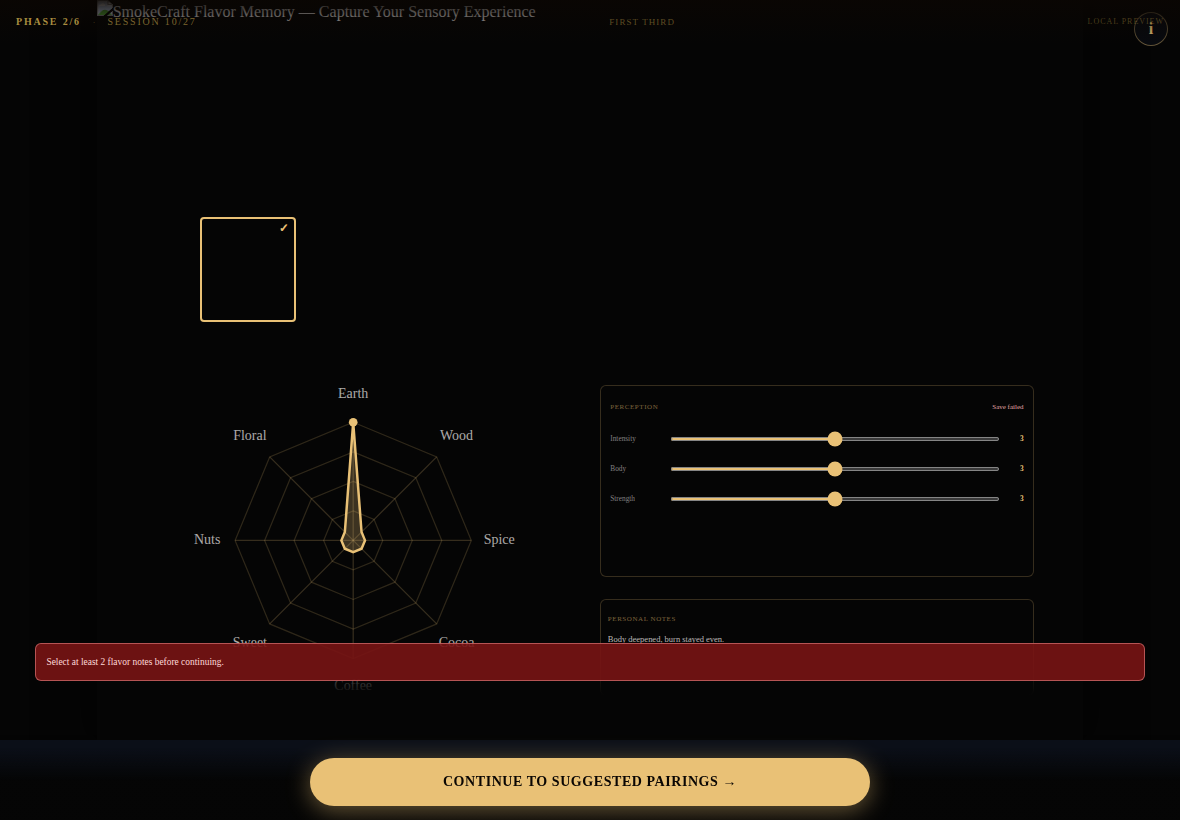
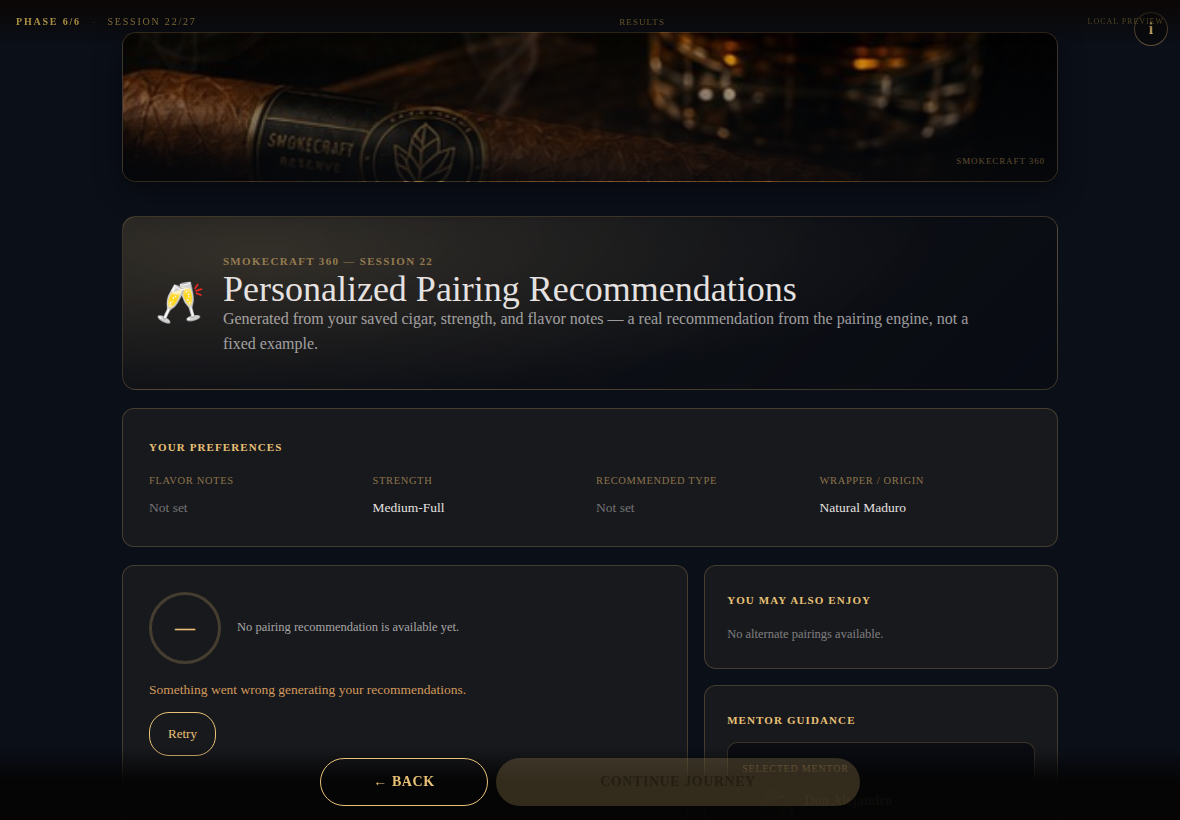
fix(integration): mount pairing-engine routes, fix journey stall at Pairing Recommendations
Root cause of the canonical journey stalling at /smokecraft/pairing-recommendations
(discovered on rerun after the flavor-memory fix — journey now correctly
reaches 20/24 checkpoints, up from 13): PairingRecommendations.jsx's
Continue button is gated on canContinue = phase === 'ready' && !!primary,
and phase is driven by useSmokeCraftPairingEngine() ->
pairingEngineApiClient.js, which calls /api/smokecraft/pairing-engine —
never mounted on the integration branch, so phase could never reach
'ready' and Continue stayed disabled forever.

- Port and mount pairingEngineRoutes.js (+ its controller) at
  /api/smokecraft/pairing-engine
- Verified via grep this route touches zero database tables directly —
  no migration required for this fix

Claude-Session: https://claude.ai/code/session_01Ju88KjC4Kc2MVgkLLyid8Z

diff --git a/server/controllers/pairingEngineController.js b/server/controllers/pairingEngineController.js
@@ -1,0 +1,90 @@
+import * as svc from '../services/smokecraft/pairingEngineService.js'
+
+function sendError(res, err, fallback = 400) {
+  const statusByCode = { pairing_type_required: 400, not_found: 404 }
+  res.status(statusByCode[err.code] || fallback).json({ success: false, error: err.code || 'internal_error' })
+}
+
+function guestRef(req) {
+  return req.goldenBoxGuestReference || null
+}
+
+function extractInput(body) {
+  return {
+    cigarShape: body.cigarShape || null,
+    wrapper: body.wrapper || null,
+    origin: body.origin || null,
+    strength: body.strength || null,
+    pairingType: body.pairingType || null,
+    flavorNotes: Array.isArray(body.flavorNotes) ? body.flavorNotes : [],
+    pairingGoal: body.pairingGoal || null,
+  }
+}
+
+export async function handleRecommend(req, res) {
+  try {
+    const ref = guestRef(req)
+    if (!ref) return res.status(400).json({ success: false, error: 'identity_required' })
+    const input = extractInput(req.body || {})
+    if (!input.pairingType) return res.status(400).json({ success: false, error: 'pairing_type_required' })
+    const result = await svc.recommend({ guestReference: ref, sourceRoute: req.body?.sourceRoute || null, input })
+    res.json({ success: true, ...result })
+  } catch (err) { sendError(res, err, 500) }
+}
+
+export async function handleRank(req, res) {
+  try {
+    const ref = guestRef(req)
+    if (!ref) return res.status(400).json({ success: false, error: 'identity_required' })
+    const input = extractInput(req.body || {})
+    const results = await svc.rank({ guestReference: ref, sourceRoute: req.body?.sourceRoute || null, input })
+    res.json({ success: true, results })
+  } catch (err) { sendError(res, err, 500) }
+}
+
+export async function handleSave(req, res) {
+  try {
+    const ref = guestRef(req)
+    if (!ref) return res.status(400).json({ success: false, error: 'identity_required' })
+    const { idempotencyKey, learnerRating, learnerNotes } = req.body || {}
+    if (!idempotencyKey || typeof idempotencyKey !== 'string' || idempotencyKey.length < 8) {
+      return res.status(400).json({ success: false, error: 'idempotency_key_required' })
+    }
+    const input = extractInput(req.body || {})
+    if (!input.pairingType) return res.status(400).json({ success: false, error: 'pairing_type_required' })
+    const result = await svc.savePairing({ guestReference: ref, sourceRoute: req.body?.sourceRoute || null, input, idempotencyKey, learnerRating, learnerNotes })
+    res.status(result.alreadySaved ? 200 : 201).json({ success: true, save: result.save, alreadySaved: result.alreadySaved })
+  } catch (err) { sendError(res, err, 500) }
+}
+
+export async function handleGetSavedList(req, res) {
+  try {
+    const ref = guestRef(req)
+    if (!ref) return res.status(400).json({ success: false, error: 'identity_required' })
+    const saves = await svc.getSavedPairings(ref)
+    res.json({ success: true, saves })
+  } catch (err) { sendError(res, err, 500) }
+}
+
+export async function handleGetSavedOne(req, res) {
+  try {
+    const ref = guestRef(req)
+    if (!ref) return res.status(400).json({ success: false, error: 'identity_required' })
+    const save = await svc.getSavedPairing(ref, req.params.id)
+    res.json({ success: true, save })
+  } catch (err) { sendError(res, err, 404) }
+}
+
+export async function handleRate(req, res) {
+  try {
+    const ref = guestRef(req)
+    if (!ref) return res.status(400).json({ success: false, error: 'identity_required' })
+    const { expectedVersion, learnerRating, learnerNotes } = req.body || {}
+    if (learnerRating !== undefined && learnerRating !== null && (typeof learnerRating !== 'number' || learnerRating < 1 || learnerRating > 5)) {
+      return res.status(400).json({ success: false, error: 'invalid_learner_rating' })
+    }
+    const result = await svc.ratePairing({ guestReference: ref, id: req.params.id, expectedVersion, learnerRating, learnerNotes })
+    if (!result.ok && result.conflict) return res.status(409).json({ success: false, error: 'stale_write', current: result.current })
+    res.json({ success: true, save: result.save })
+  } catch (err) { sendError(res, err, 500) }
+}

diff --git a/server/routes/pairingEngineRoutes.js b/server/routes/pairingEngineRoutes.js
@@ -1,0 +1,38 @@
+/**
+ * Holistic Fix 5B-1 — server-authoritative pairing engine routes. Mounted
+ * at /api/smokecraft/pairing-engine in server/index.js. Same guest-
+ * identity middleware pattern as Skill Tree / Collections (built with
+ * every previously-found systemic defect class closed from day one:
+ * dev/test rate-limiter skip, ensureSmokeCraftGuestIdentity, and the
+ * `user:` identity prefix for authenticated accounts).
+ */
+import { Router } from 'express'
+import rateLimit from 'express-rate-limit'
+import { optionalAuth } from '../middleware/authMiddleware.js'
+import { attachSmokeCraftIdentity, ensureSmokeCraftGuestIdentity, requireSmokeCraftIdentity } from '../middleware/smokecraftGuestIdentity.js'
+import * as ctrl from '../controllers/pairingEngineController.js'
+
+const router = Router()
+const IS_PROD = process.env.NODE_ENV === 'production'
+const readLimiter = rateLimit({ windowMs: 60 * 1000, max: 90, skip: () => !IS_PROD })
+const writeLimiter = rateLimit({ windowMs: 60 * 1000, max: 30, skip: () => !IS_PROD })
+
+router.use(optionalAuth, attachSmokeCraftIdentity, ensureSmokeCraftGuestIdentity)
+
+function bridgeIdentity(req, _res, next) {
+  if (req.smokecraftIdentity?.type === 'user') {
+    req.goldenBoxGuestReference = `user:${req.smokecraftIdentity.id}`
+  } else if (req.smokecraftIdentity?.type === 'guest') {
+    req.goldenBoxGuestReference = req.smokecraftIdentity.id
+  }
+  next()
+}
+
+router.post('/recommend', writeLimiter, requireSmokeCraftIdentity, bridgeIdentity, ctrl.handleRecommend)
+router.post('/rank', writeLimiter, requireSmokeCraftIdentity, bridgeIdentity, ctrl.handleRank)
+router.post('/save', writeLimiter, requireSmokeCraftIdentity, bridgeIdentity, ctrl.handleSave)
+router.get('/saved', readLimiter, requireSmokeCraftIdentity, bridgeIdentity, ctrl.handleGetSavedList)
+router.get('/saved/:id', readLimiter, requireSmokeCraftIdentity, bridgeIdentity, ctrl.handleGetSavedOne)
+router.put('/saved/:id/rate', writeLimiter, requireSmokeCraftIdentity, bridgeIdentity, ctrl.handleRate)
+
+export default router

diff --git a/server/index.js b/server/index.js
@@ -57,6 +57,7 @@ import smokecraftVenueCommerceRoutes        from './routes/smokecraftVenueCommer
 import smokecraftPlayerStateRoutes          from './routes/smokecraftPlayerStateRoutes.js'
 import smokecraftPairingRoutes              from './routes/smokecraftPairingRoutes.js'
 import passport360SyncRoutes                from './routes/passport360SyncRoutes.js'
+import pairingEngineRoutes                  from './routes/pairingEngineRoutes.js'
 import rankingRoutes         from './routes/rankingRoutes.js'
 import badgeRoutes           from './routes/badgeRoutes.js'
 import tickerRoutes          from './routes/tickerRoutes.js'
@@ -147,6 +148,10 @@ app.use('/api/smokecraft/player-state',    smokecraftPlayerStateRoutes)
 // it will navigate past S10 — journey was stuck at flavor-memory.
 app.use('/api/modules/smokecraft/pairing', smokecraftPairingRoutes)
 app.use('/api/passport-360/sync',          passport360SyncRoutes)
+// Genuine missing-route blocker found and fixed during Block 8 self-QA
+// rerun 3: PairingRecommendations never reaches phase==='ready' (its
+// Continue gate) without this — journey was stuck at pairing-recommendations.
+app.use('/api/smokecraft/pairing-engine',  pairingEngineRoutes)
 app.use('/api/audit',             auditRoutes)
 app.use('/api/admin',             adminRoutes)
 app.use('/api/founder',           founderRoutes)
